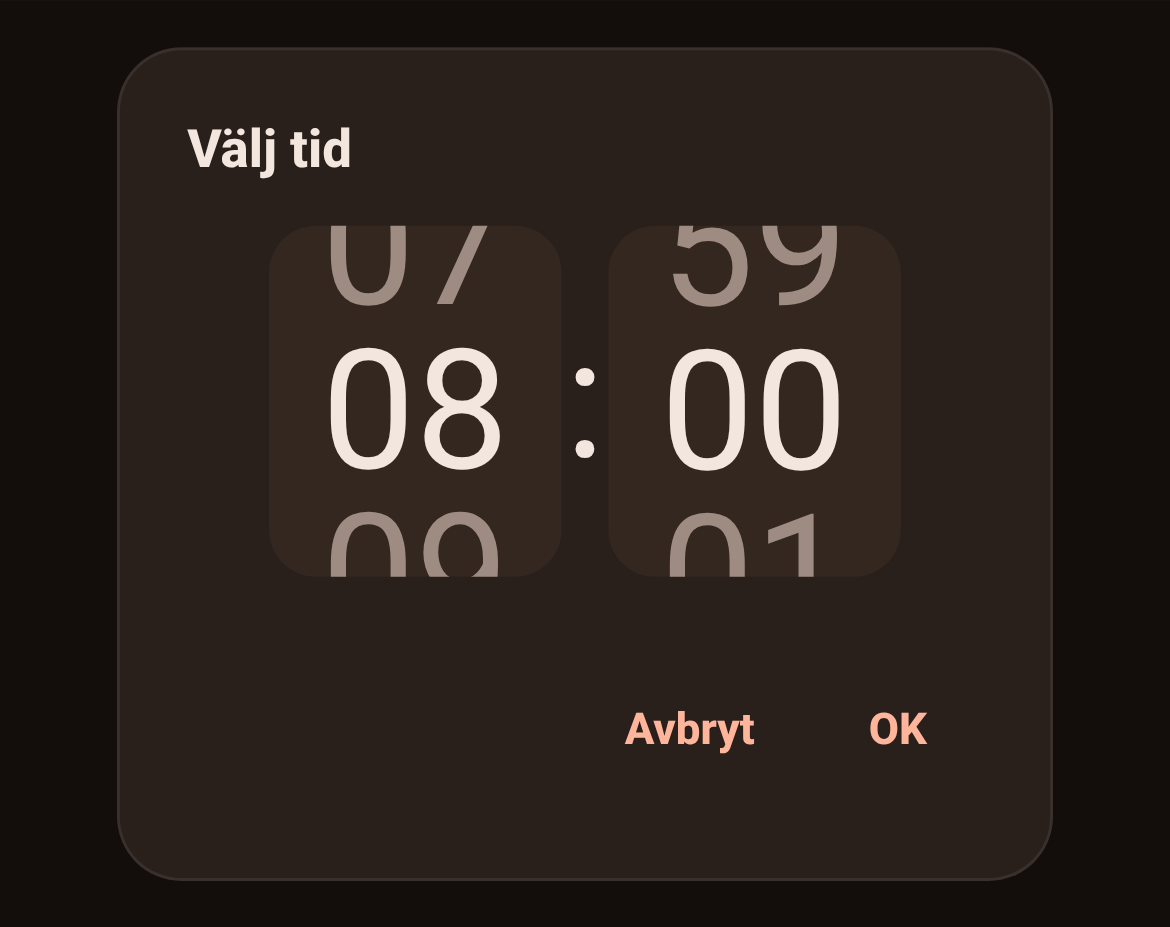
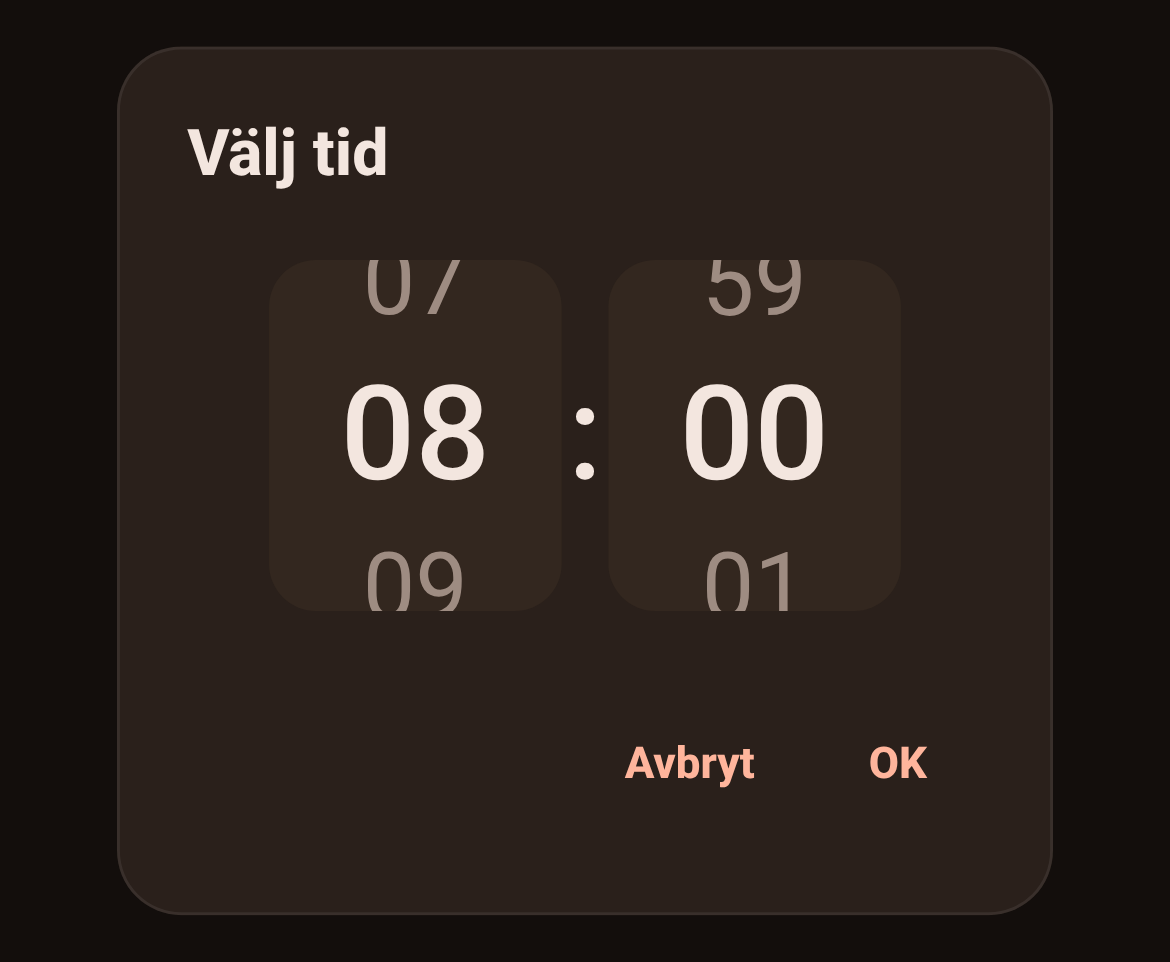
Tidsväljaren som android-ui 3.12.0 (1.13.1) (#20)
* Tidsväljaren som android-ui 3.12.0: appens typsnitt i plats, rubriken som dialogerna (1.13.1)

Claude-Session: https://claude.ai/code/session_01KhEpwhrx6yxPvrpFXP2GCC

* README: versionsraden 1.13.1

Claude-Session: https://claude.ai/code/session_01KhEpwhrx6yxPvrpFXP2GCC

---------

diff --git a/src/kh.css b/src/kh.css
@@ -26,7 +26,7 @@
   --kh-type-pill: 500 12px/16px var(--kh-font-body);
   --kh-type-caption: 500 11px/16px var(--kh-font-body);
   --kh-type-button: 500 14px/20px var(--kh-font-heading);
-  --kh-type-time-wheel: 400 57px/64px var(--kh-font-body); /* Material 3:s displayLarge: tidsväljarens tal */
+  --kh-type-time-wheel: 500 45px/52px var(--kh-font-body); /* AppTypography.timeWheelSelected: tidsväljarens tal i mitten och kolonet */
   --kh-tracking-screen-title: 0;
   --kh-tracking-caption: 0.045em;
 
@@ -837,8 +837,10 @@ textarea.kh-field__input { resize: none; min-block-size: 56px; field-sizing: con
 
 /*
  * <kh-time-picker> i en kh-dialog: två hjul (timme och minut, 24 timmar) i segmentvalets nedsänkta spår,
- * som Material 3:s TimeScroll. kh.js bygger hjulen; varje tal är 56 högt och hjulet visar 120, så att
- * grannarna syns avskurna. Talet i mitten står i on-surface, grannarna i outline (en rullningsdriven animering).
+ * som Material 3:s TimeScroll. kh.js bygger hjulen; varje tal är 52 högt och hjulet visar 120, så att
+ * grannarna syns avskurna. Talet i mitten står i on-surface, grannarna i outline och mindre (en rullningsdriven
+ * animering): 32/45 av talet och vikt 400 som AppTypography.timeWheel i android-ui 3.12.0. Skalan i stället för
+ * font-size, så att animeringen inte nollställer de tabulära siffrorna.
  */
 .kh-time-picker {
   display: grid;
@@ -853,7 +855,7 @@ textarea.kh-field__input { resize: none; min-block-size: 56px; field-sizing: con
 .kh-time-picker__wheel {
   box-sizing: border-box;
   block-size: 120px;
-  padding-block: 32px; /* (120 − 56) / 2: ett tal kan stå i mitten */
+  padding-block: 34px; /* (120 − 52) / 2: ett tal kan stå i mitten */
   overflow-y: auto;
   overscroll-behavior: contain;
   scroll-snap-type: y mandatory;
@@ -866,7 +868,7 @@ textarea.kh-field__input { resize: none; min-block-size: 56px; field-sizing: con
 .kh-time-picker__item {
   display: grid;
   place-items: center;
-  block-size: 56px;
+  block-size: 52px;
   scroll-snap-align: center;
   color: var(--kh-outline);
   cursor: pointer;
@@ -875,11 +877,11 @@ textarea.kh-field__input { resize: none; min-block-size: 56px; field-sizing: con
   animation-timeline: view();
 }
 @keyframes kh-time-wheel {
-  0%, 30%, 70%, 100% { color: var(--kh-outline); }
-  50% { color: var(--kh-on-surface); }
+  0%, 30%, 70%, 100% { color: var(--kh-outline); scale: calc(32 / 45); font-weight: 400; }
+  50% { color: var(--kh-on-surface); scale: 1; font-weight: 500; }
 }
-/* Dialogen med tidsväljaren har TimePickerPopups mindre rubrik. */
-.kh-dialog:has(> .kh-time-picker) .kh-dialog__title { font: var(--kh-type-section-title); }
+/* Rubriken som i övriga dialoger, med luft ner till hjulen (TimePickerPopup, android-ui 3.12.0). */
+.kh-dialog:has(> .kh-time-picker) .kh-dialog__title { margin-block-end: var(--kh-space-s); }
 
 /* ---------- Ark (AppBottomSheet) ---------- */
 

diff --git a/README.md b/README.md
@@ -4,7 +4,7 @@ android-ui:s utseende för Kodhästs webbappar (Husjakt först, sedan Veckans ma
 knappar och de andra delarna som i Android-apparna, som ren CSS. Bara färger och typsnitt skiljer
 mellan apparna; formerna och måtten är desamma överallt.
 
-**Version:** 1.13.0 (tagg `v1.13.0`) ·
+**Version:** 1.13.1 (tagg `v1.13.1`) ·
 tal ur android-ui 3.2.2 · planen: [Kodhast/android-ui#93](https://github.com/Kodhast/android-ui/issues/93).
 
 **Facit är android-ui:s komponenter och Roborazzi-bilder**, inte en mockup. Galleriet här speglar
@@ -61,7 +61,7 @@ standardvärden – en app som saknar en färg ser det direkt. Galleriets testte
 | `--kh-toolbar`, `--kh-on-toolbar` | `ExtendedColors.toolbar`, `.onToolbar` (flikraden) |
 | `--kh-surface-container-high` (valfri, standard `--kh-card`) | dra-ned-prickarnas behållare |
 | `--kh-font-body`, `--kh-font-heading` | appens typsnitt |
-| `--kh-type-screen-title`, `-big-number`, `-headline`, `-section-title`, `-quantity`, `-item-title`, `-item-subtitle`, `-body`, `-body-medium`, `-pill`, `-caption`, `-button`, `-time-wheel` | `AppTypography` (`-time-wheel`: tidsväljarens tal, Material 3:s displayLarge) (som `font`-förkortning; standard Material 3:s typskala) |
+| `--kh-type-screen-title`, `-big-number`, `-headline`, `-section-title`, `-quantity`, `-item-title`, `-item-subtitle`, `-body`, `-body-medium`, `-pill`, `-caption`, `-button`, `-time-wheel` | `AppTypography` (`-time-wheel`: tidsväljarens tal i mitten, `AppTypography.timeWheelSelected`; grannarna 32/45 av det) (som `font`-förkortning; standard Material 3:s typskala) |
 | `--kh-tracking-screen-title`, `--kh-tracking-caption` | stilarnas teckenavstånd |
 | `--kh-depth-highlight`, `-sheen`, `-shadow`, `-card-edge`, `-card-shadow`, `-card-sheen` (valfri), `-header-shadow` (valfri, standard `-card-shadow`) | `AppDepth` – gäller inom klassen `kh-depth` |
 | `--kh-card-padding`, `--kh-card-gap`, `--kh-card-border` | `AppCardStyle` (standard ReseApoteket och Dagboken) |
@@ -123,7 +123,7 @@ Med `kh.js` (egna element, inga shadow DOM):
 | `<kh-swipe label="Radera">` runt en rad (`tone="hide"` för dölj/arkivera) | `SwipeToDelete`, `SwipeToHide` | Svep åt vänster med finger eller penna (inte mus, inte från kantzonen 24 px): raden följer fingret med `label` på felfärgen (`tone="hide"`: primärtonen) bakom; efter en tredjedel av bredden eller ett snabbt drag meddelas `kh-swipe` och raden glider tillbaka. Svep åt höger går till sidan; elementet har `data-own-swipe="left"` för sidans eget sidledssvep. Raden ska också ha Radera synligt. |
 | `<kh-segmented>` | `AppSegmentedChoice` | Ett val i taget i barnens `aria-checked` (eller `aria-pressed`/`aria-selected`), med tryck och pilar; meddelar `kh-select` (`detail: { index, value }`). |
 | `<kh-stepper value="2" min="0" max="999" step="1" label="doser per dag">` | `QuantityStepper` | − och + i radtonens spår; knappen vid gränsen stängs av, `disabled` stänger båda. Knapparnas namn ur `label` ("Minska doser per dag"). Meddelar `change`; `value` läses och sätts som tal, egenskapen `format` (`(v) => text`) visar värdet med enhet (`valueText`). Knapparna 44, `--kh-stepper-button: 48px` för full tryckyta. Etiketten bredvid (`showLabel`): `<div class="kh-stepper-field">` med `<span class="kh-stepper-field__label" aria-hidden="true">`. |
-| `<kh-time-picker value="07:30" step="5">` i en `kh-dialog` | `TimePickerPopup` (rullhjul, android-ui #106) | Timme och minut som två hjul i segmentvalets spår (`--kh-row-tint`), 24 timmar, som går runt. Rullas med fingret, mushjulet, pilarna upp och ned eller ett tryck på talet ovanför eller under. `value` läses och sätts som `"HH:MM"` (också medan dialogen är stängd); `step` är minuthjulets steg (standard 1) och en tid mellan stegen avrundas till närmaste. `change` meddelas när hjulet stannat på en ny tid. Dialogens rubrik får `--kh-type-section-title` som i Android; Avbryt och OK är `kh-btn--text`. |
+| `<kh-time-picker value="07:30" step="5">` i en `kh-dialog` | `TimePickerPopup` (rullhjul, android-ui #106) | Timme och minut som två hjul i segmentvalets spår (`--kh-row-tint`), 24 timmar, som går runt. Rullas med fingret, mushjulet, pilarna upp och ned eller ett tryck på talet ovanför eller under. `value` läses och sätts som `"HH:MM"` (också medan dialogen är stängd); `step` är minuthjulets steg (standard 1) och en tid mellan stegen avrundas till närmaste. `change` meddelas när hjulet stannat på en ny tid. Dialogens rubrik är `--kh-type-headline` som i övriga dialoger, med luft ner till hjulen; Avbryt och OK är `kh-btn--text`. |
 
 Skillnader mot Android som är kända:
 
@@ -171,6 +171,7 @@ taggas `main` med `v<version>`: Actions → Tagga → Run workflow på `main` (`
 
 | Version | Ändring |
 |---|---|
+| 1.13.1 | Tidsväljaren som android-ui 3.12.0 (#123): talen 52 höga, `--kh-type-time-wheel` 500 45px/52px (var 400 57px/64px), grannarna 32/45 av talet och vikt 400, tabulära siffror; rubriken i `--kh-type-headline` som övriga dialoger med luft ner till hjulen. Omtagna: `TimePickerPopup_oppen`, `TimePickerPopup_djup` |
 | 1.13.0 | Kryss, växel och stegare som i android-ui: `kh-check` (`MorphingCheck`, ringen fjädrar till en kaka med bock) och `kh-check-row` (`CheckRow`, klar och tonad när ikryssad, `--plain`), `kh-switch` och `kh-switch-row` (`SwitchControl`, `SwitchRow`, `--inactive`), `<kh-stepper>` och `kh-stepper-field` (`QuantityStepper`, `format`, `--kh-stepper-button`); alla med djup i `kh-depth`. Nya skärmdumpar: `CheckRow_varianter`, `SwitchRow_varianter`, `QuantityStepper_varianter`, `QuantityStepper_etikett`, `Webb_kryssrad_djup`, `Webb_reglage_djup`, `Webb_stegare_djup` |
 | 1.12.0 | Progressiv oskärpa under sidhuvudet som i android-ui 3.11.1 (#105): innehållet som rullat in under `kh-header` och `kh-topbar` är suddigt vid kanten (radie 8) och skarpt 24 längre ned; tonar in med rullningen, `--kh-blur: 0` stänger av. `kh-header` klipper bara i sidled. Nya skärmdumpar: `EntityListScreen_rullad`, `Webb_topprad_rullad` |
 | 1.11.0 | Oskärpa bakom dialog och ark som i android-ui 3.8.0 (#104): `kh-dialog` och `kh-sheet` suddar innehållet bakom (`AppBlur.behindRadius` 12) och slöjan blir 20 %. `--kh-blur: 0` stänger av. Nya skärmdumpar: `AppBottomSheet_oskarpa`, `ConfirmDialog_oskarpa` (hela fönstret, `data-helskarm`) |
